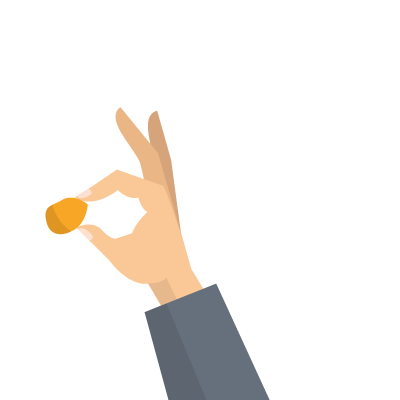
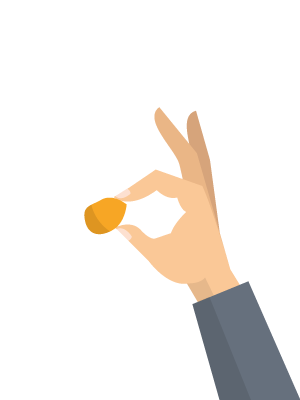
ændringer på børnesiden

Changed region(s): [[0.09, 0.27, 1.0, 1.0]]

diff --git a/style.css b/style.css
@@ -40,7 +40,11 @@ body {
     75% {background-color: rgba(247,166,37,0.25); transform: translate(75px,40px); }
     100% {background-color: rgba(247,166,37,0); transform: translate(100px,10px); }
 }
-
+@keyframes ravsmykke_glow {
+    0% {background-color: rgba(247,166,37,0.4);}
+    50% {background-color: rgba(247,166,37,0);}
+    100% {background-color: rgba(247,166,37,0.4);}
+}
 p {
 	font-size: 14px;
 	line-height: 28px;
@@ -328,19 +332,19 @@ p {
     float: right;
 }
 #slib_text {
-    margin-left: 5%;
-    width: 90%;
+    width: 960px;
     height: 400px;
+    margin: 0 auto;
 }
 #sliber_text_holder {
-    position: relative;
-    float: right;
-    width: 400px;
+    float: left;
+    width: 260px;
     height: 100%;
-    font-size: 36px;
+    font-size: 24px;
+    /* mangler andre browsers*/
 }
 .picture_cnt {
-    width: 800px;
+    width: 960px;
     height: 400px;
 }
 #sliber {
@@ -360,8 +364,10 @@ p {
     width: 20px;
     height: 20px;
     z-index: 20;
-    left: 360px;
+    left: 620px;
     top: 180px;
+    -webkit-border-radius: 50%;
+    -moz-border-radius: 50%;
     border-radius: 50%;
 }
 #glans2 {
@@ -369,9 +375,12 @@ p {
     width: 20px;
     height: 20px;
     z-index: 20;
-    left: 360px;
+    left: 620px;
     top: 220px;
+    -webkit-border-radius: 50%;
+    -moz-border-radius: 50%;
     border-radius: 50%;
+
 }
 #ravhaand {
     width: 300px;
@@ -388,14 +397,33 @@ p {
 #certifikat_second_cnt {
     clear: both;
     width: 100%;
+    height: 400px;
     min-height: 1px;
-    background-color: #f7c142;
+    background-color: #dcd9cb;
 }
 #certifikat_third_cnt {
     clear: both;
     width: 100%;
     min-height: 1px;
-    background-color: #f7b4c6;
+    background-color: #f7f7f7;
+}
+#third_cnt {
+    width: 960px;
+    height: 400px;
+    margin: 0 auto;
+}
+#drengkigger {
+    float: left;
+    height: 400px;
+    width: 400px;
+    background-image: url('images/Dreng.png');
+    background-repeat: no-repeat;
+}
+#third_text {
+    float: right;
+    height: 400px;
+    font-size: 24px;
+    /* mangler andre browsers*/
 }
 #certifikat_fourth_cnt {
     clear: both;
@@ -405,7 +433,54 @@ p {
 }
 #certifikat_fifth_cnt {
     width: 100%;
+    height: 400px;
     clear: both;
     min-height: 1px;
-    background-color: #91e5f7;
+    background-color: #f7f7f7;
+}
+#smykke_cnt {
+    width: 960px;
+    height: 400px;
+    margin: 0 auto;
+}
+#smykke {
+    position: relative;
+    background-image: url('images/ravsmykke.png');
+    width: 100%;
+    height: 300px;
+    z-index: 10;
+}
+#smykke_text {
+    text-align: center;
+    z-index: 10;
+}
+#ravsmykkeglow {
+    position: relative;
+    width: 125px;
+    height: 155px;
+    background-color: rgba(247,166,37,0.2);
+    top: -220px;
+    left: 417.5px;
+    z-index: 1;
+    -webkit-border-radius: 50%;
+    -moz-border-radius: 50%;
+    border-radius: 50%;
+    -webkit-filter: blur(10px);
+    -moz-filter: blur(10px);
+    -o-filter: blur(10px);
+    -ms-filter: blur(10px);
+    filter: blur(10px);
+    -webkit-animation: ravsmykke_glow 2s;
+    animation: ravsmykke_glow 2s;
+    -webkit-animation-iteration-count: infinite;
+    animation-iteration-count: infinite;
+    animation-timing-function: ease-in-out;
+
+}
+
+
+/*FOOTER-------------*/
+#footer {
+    height: 150px;
+    background-color: #333333;
 }

diff --git a/js/main.js b/js/main.js
@@ -12,7 +12,7 @@ function ravslibeffekt() {
     a.style.animationIterationCount = "infinite";
     a.style.animationTimingFunction = "linear";
     var b = document.getElementById("ravhaand");
-    b.style.transform = "translate(-75px)";
+    b.style.transform = "translate(-115px)";
     var c = document.getElementById("glans");
     c.style.animation = "glans1_effekt 0.5s";
     c.style.animationIterationCount = "infinite";

diff --git a/footer.php b/footer.php
@@ -1,11 +1,11 @@
 <div class="clear"></div>
 </div>
 <footer id="footer" role="contentinfo">
-<!--
+
 <div id="copyright">
 <?php echo sprintf( __( '%1$s %2$s %3$s. All Rights Reserved.', 'ravfestival_theme' ), '&copy;', date( 'Y' ), esc_html( get_bloginfo( 'name' ) ) ); echo sprintf( __( ' Theme By: %1$s.', 'ravfestival_theme' ), '<a href="http://tidythemes.com/">TidyThemes</a>' ); ?>
 </div>
--->
+
 </footer>
 </div>
 <?php wp_footer(); ?>
